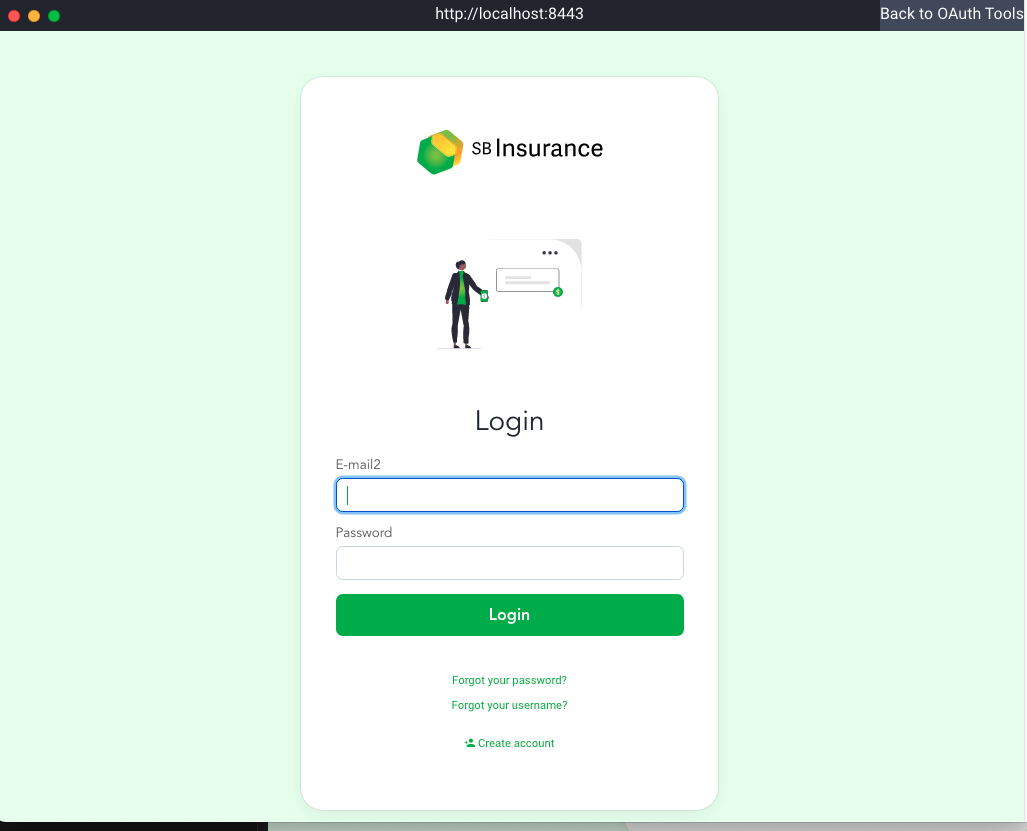
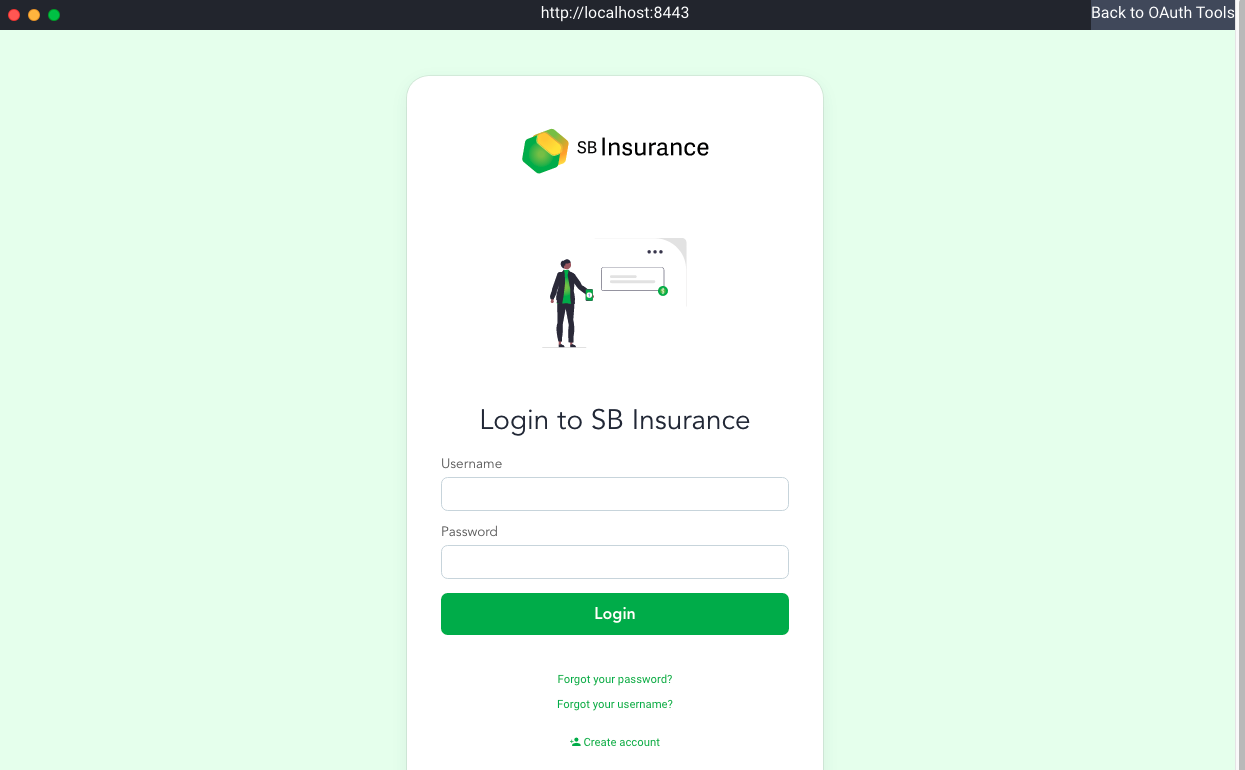
Updates

diff --git a/recipes/basics/scss/secure-bank-theme.scss b/recipes/basics/scss/secure-bank-theme.scss
@@ -1,106 +1,27 @@
-/*
- * Copyright (C) 2021 Curity AB. All rights reserved.
- *
- * The contents of this file are the property of Curity AB.
- * You may not copy or use this file, in either source code
- * or executable form, except in compliance with terms
- * set by Curity AB.
- *
- * For further information, please contact Curity AB.
- */
+@import "curity-theme";
 
-// Theme variables
 // 1. Page
-// The main page that contains the login well.
 :root {
-  --page-background-image-url: none;
-  --page-background-image-gradient: none;
-  --page-background-position: center center;
-  --page-background-repeat: no-repeat;
-  --page-background-size: cover;
   --page-background-color: #fff6ff;
   --page-background-color-dark: #7a0079;
-  --page-powered-by-display: flex; // Set to none to hide
-}
-
-// 2 Well
-// The main area with the forms
-:root {
-  --well-border-color: transparent;
-  --well-background-color: white;
-  --well-border-radius: 26px;
-  --well-border-style: solid;
-  --well-border-width: 1px;
-  --well-box-shadow: rgb(0 0 0 / 5%) 0 6px 24px 0, rgb(0 0 0 / 8%) 0 0 0 1px;
 }
 
 // 3 Login symbol
 :root {
-  --login-symbol-display: block; // Set to none to hide
   --login-symbol-size: 240px;
-  --login-symbol-margin-top: 2rem;
-  --login-symbol-margin-bottom: 2rem;
-  --login-symbol-border-radius: 50%;
 }
 
 // 4 Login logo
 :root {
-  --login-logo-display: block; // Set to none to hide
-  --login-logo-max-width: 240px;
   --login-logo-max-height: 120px;
 }
 
 // 5. Colors
 :root {
-  --color-text: #737373;
-  --color-heading: #262c3d;
-  --color-light: white;
   --color-primary: #9e0ca3;
-  --color-primary-dark: #262c3d;
-  --color-primary-medium: #3c4764;
-  --color-primary-light: #7e89a8;
-  --color-success: #57c75c;
-  --color-info: #62818f;
-  --color-danger: #ca2e2b;
-  --color-warning: #e0c01c;
-  --color-add: #0092ff;
-  --color-spot: #d859a1;
-  --color-link: #d859a1;
-  --color-link-hover: #87148b;
-}
-
-// 6. Forms
-:root {
-  --form-label-color: #666;
-  --form-label-line-height: 2;
-  --form-label-font-size: calc(var(--type-base-size) * 0.85);
-  --form-field-disabled-background-color: rgb(0 0 0 / 12.5%);
-  --form-field-disabled-opacity: 0.5;
-  --form-field-readonly-background-color: rgb(0 0 0 / 12.5%);
-  --form-field-background-color: white;
-  --form-field-background-color-dark: var(--color-primary-dark);
-  --form-field-placeholder-color: rgb(141 141 141);
-  --form-field-border-color: rgb(207 217 224);
-  --form-field-box-shadow: none;
-  --form-field-box-shadow-focus: rgb(152 203 255) 0 0 0 3px;
-  --form-field-border-color-focus: rgb(0 89 200);
-  --form-field-height: 2.55rem;
-  --form-field-padding: 0.75rem;
-  --form-field-padding-left: 0.75rem;
-  --form-field-icon-display: none;
-  --form-field-icon-color: #ccc;
-  --form-field-icon-size: 1.5rem;
-  --form-field-border-radius: 8px;
-  --form-field-border-style: solid;
-  --form-field-border-width: 1px;
-  --form-field-border-color: #cfd9e0;
-  --form-field-border-color-hover: rgb(152, 152, 153);
-  --form-field-border-color-dark: var(--color-primary-dark);
-  --form-field-caret-color: var(--color-primary);
 }
 
 // 7. Typography
-// The font stacks can be native system fonts, or web fonts. If web fonts is used the fonts need to be setup in the css using @font-face
 :root {
   --type-sans:
     "Avenir",
@@ -111,7 +32,6 @@
     "Segoe UI",
     "Lucida Grande",
     sans-serif;
-  --type-weight: normal;
   --type-sans-bold:
     "Avenir",
     "Roboto-Medium",
@@ -120,89 +40,5 @@
     "Roboto",
     "Segoe UI",
     "Lucida Grande",
-    sans-serif;
-  --type-weight-bold: 600;
-  --type-mono: "SF Mono", consolas, monaco, "Courier New", courier, monospace;
-  --type-line-height: 1.5;
-  --type-base-size: 1.2rem;
-}
-
-// 8. Spacing
-// Space between elements and components. Can be relative units like rem, ems but also pixels (px)
-:root {
-  --space-1: 0.5rem;
-  --space-2: calc(var(--space-1) * 2);
-  --space-3: calc(var(--space-1) * 4);
-  --space-4: calc(var(--space-1) * 8);
-}
-
-// 9. Progress bar
-:root {
-  --progress-bar-height: 6px;
-  --progress-bar-border-radius: 6px;
-}
-
-// 10. Buttons
-:root {
-  --button-padding-y: 0.6rem;
-  --button-padding-x: 1rem;
-  --button-border-radius: 8px;
-  --button-font-size: calc(var(--type-base-size));
-  --button-color: var(--color-primary);
-  --button-color-hover: var(--color-primary-dark);
-}
-
-// 11 Authenticator colors
-:root {
-  --authenticator-google-color: #4285f4;
-  --authenticator-pingfederate-color: #bc1f27;
-  --authenticator-email-color: grey;
-  --authenticator-oidc-color: #f78c40;
-  --authenticator-group-color: green;
-  --authenticator-encap-color: #fbb034;
-  --authenticator-windows-color: #0078d7;
-  --authenticator-siths-color: #008272;
-  --authenticator-facebook-color: #3b5998;
-  --authenticator-linkedin-color: #0077b5;
-  --authenticator-sms-color: #70b29c;
-  --authenticator-html-form-color: #626c87;
-  --authenticator-saml-color: #666;
-  --authenticator-totp-color: #4682b4;
-  --authenticator-github-color: #333;
-  --authenticator-twitter-color: #1da1f2;
-  --authenticator-bankid-color: #235971;
-  --authenticator-dropbox-color: #007ee5;
-  --authenticator-aws-color: #f90;
-  --authenticator-salesforce-color: #1798c1;
-  --authenticator-windows-live-color: #d83b01;
-  --authenticator-slack-color: #6ecadc;
-  --authenticator-box-color: #0061d5;
-  --authenticator-bitbucket-color: #205081;
-  --authenticator-instagram-color: #c13584;
-  --authenticator-signicat-color: #212831;
-  --authenticator-stackexchange-color: #1e5397;
-  --authenticator-criipto-color: #edb0ab;
-  --authenticator-freja-eid-color: #48429e;
-  --authenticator-cgi-color: #c03;
-  --authenticator-duo-color: #6dc04f;
-  --authenticator-sign-in-with-apple-color: #000;
-  --authenticator-social-single-color: var(--color-primary);
-  --authenticator-username-color: var(--color-primary);
-  --authenticator-netidaccess-os-color: #000;
-}
-
-// 12 Alerts
-:root {
-  --alert-border-radius: 8px;
-  --alert-border-style: solid;
-  --alert-border-width: 1px;
-  --alert-border-color: #cfd9e0;
-}
-
-// 13 Done checkmark
-:root {
-  --done-checkmark-container-size: 100px;
-  --done-checkmark-size: 80px;
-  --done-checkmark-line-color: var(--color-success);
-  --done-checkmark-circle-color: var(--color-success);
+    sans-serif;    
 }
